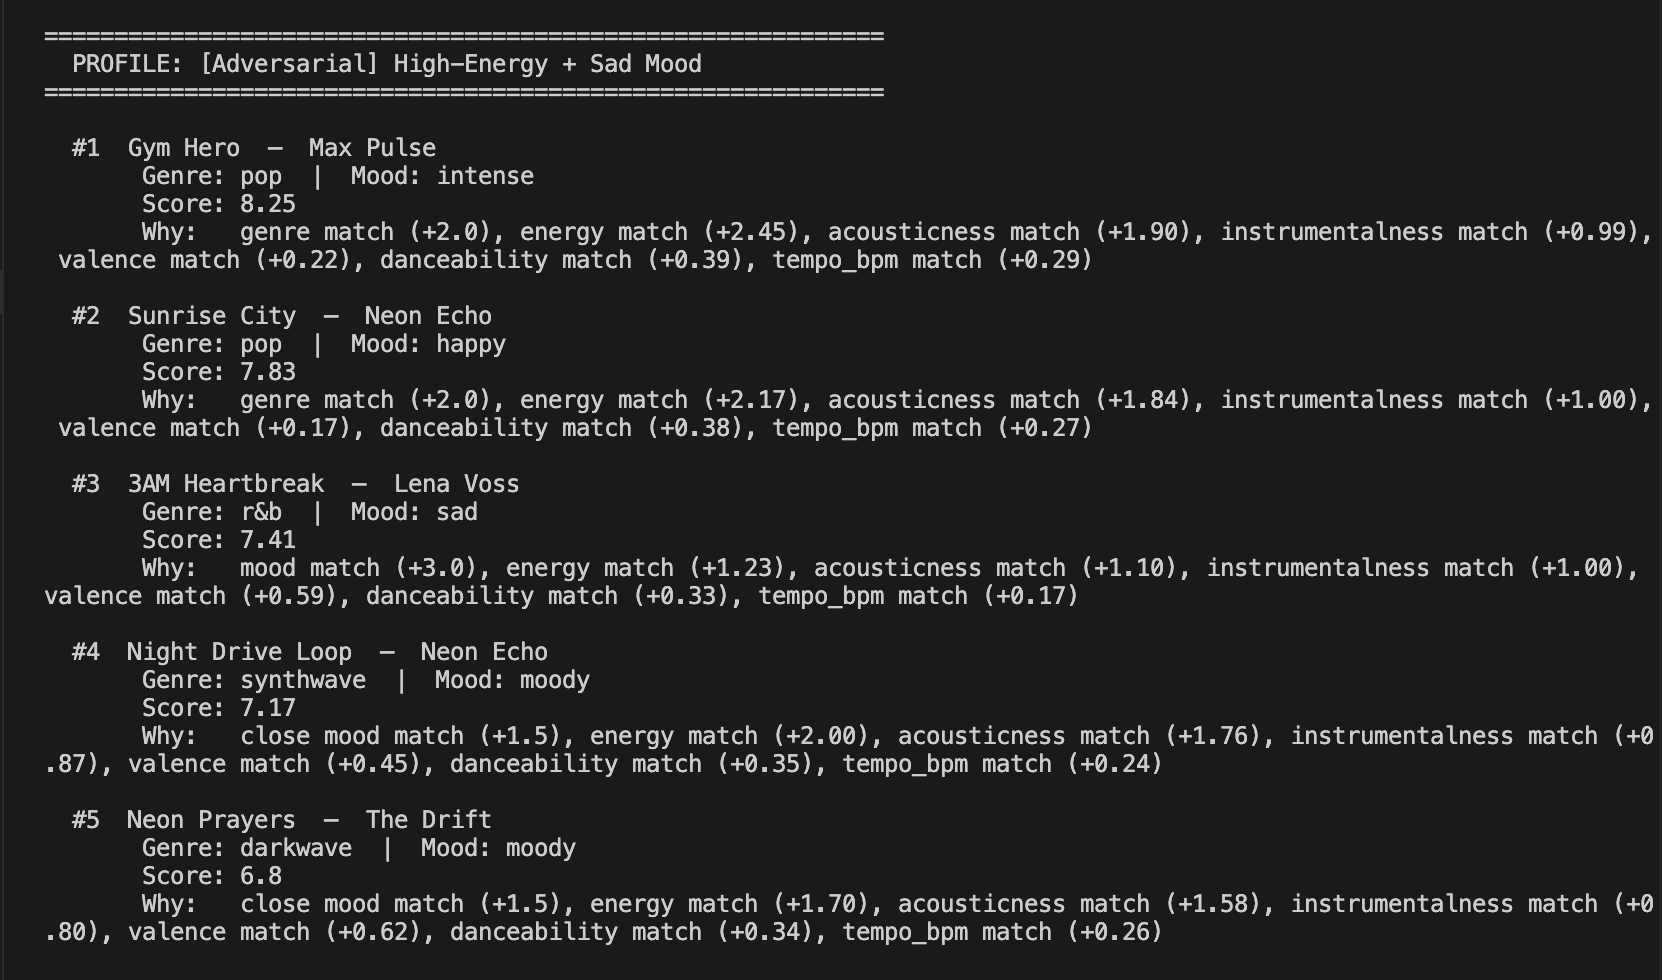
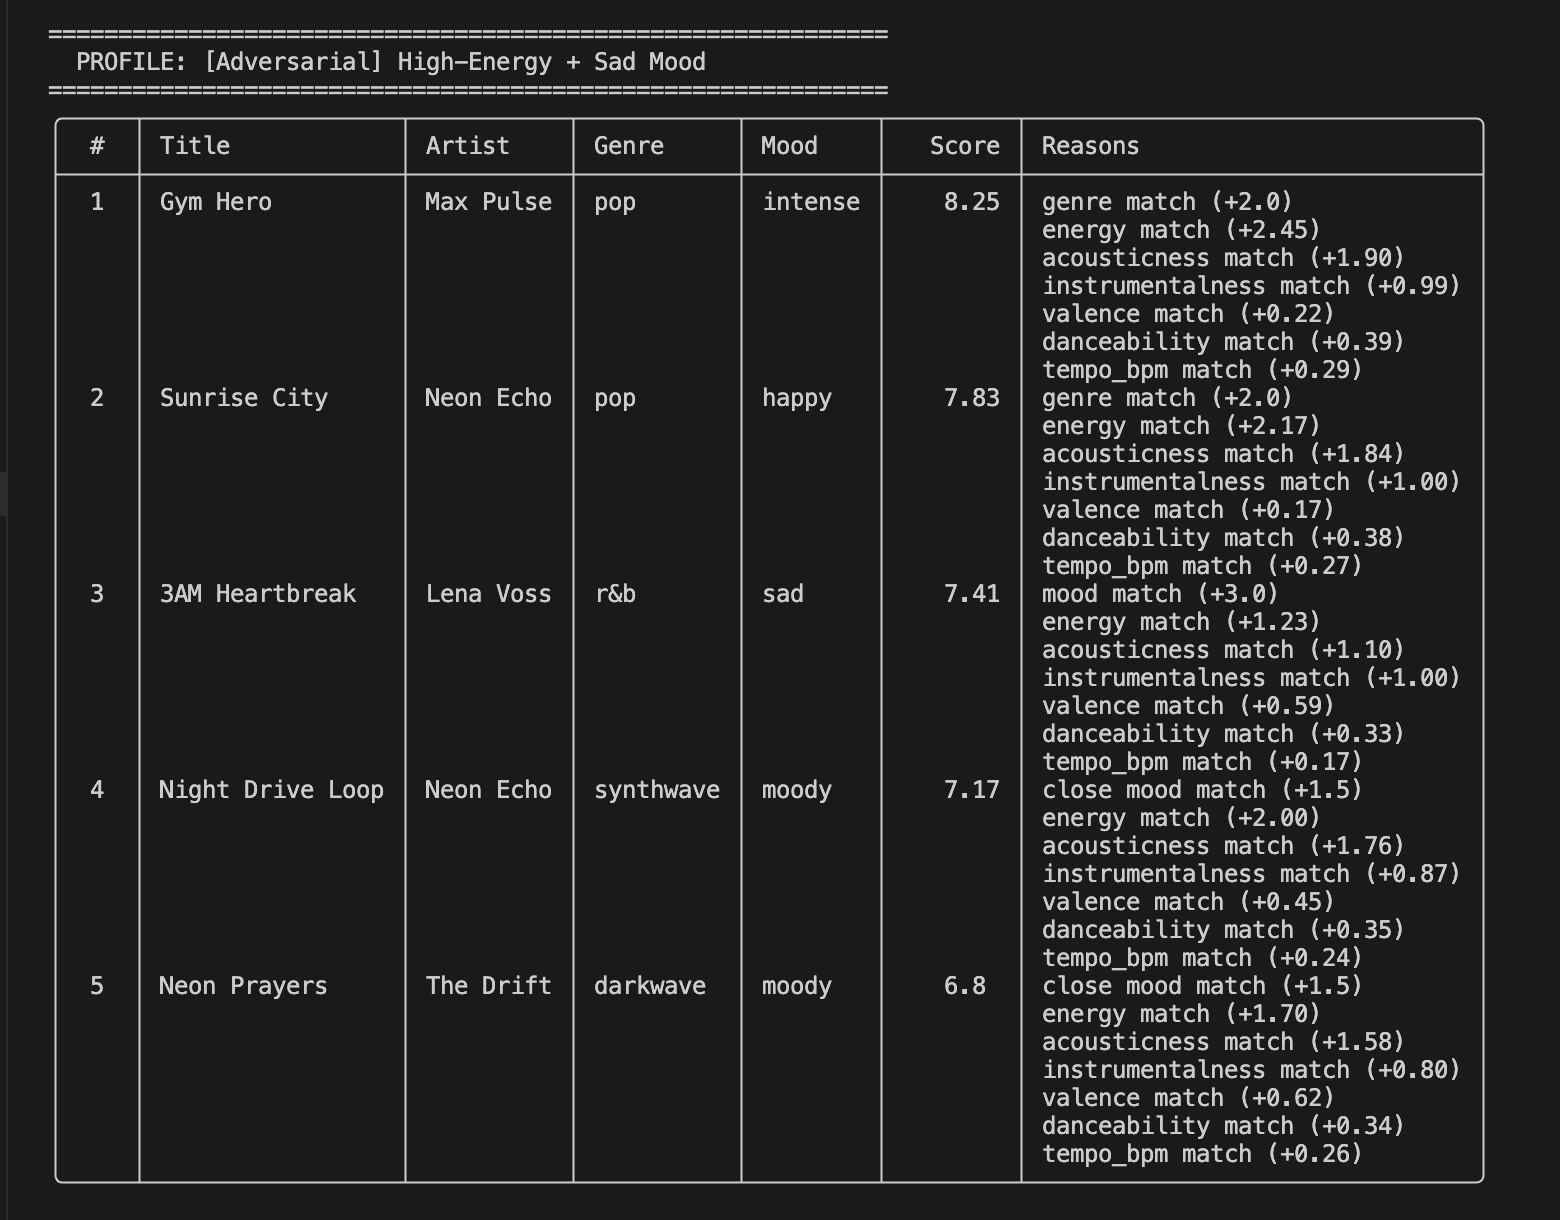
replace plain terminal output with formatted tabulate tables in README

Changed region(s): [[0.0308, 0.0, 1.0, 0.9796], [0.9231, 0.0918, 0.9538, 0.1531], [0.4923, 0.3061, 0.5231, 0.3367]]

diff --git a/README.md b/README.md
@@ -48,7 +48,7 @@ Each song gets a score based on how closely it matches the user's preferences. M
 
 ---
 
-## Sample Output — Per Profile
+## Sample Output Per Profile
 
 ### High-Energy Pop
 ![High-Energy Pop](assets/high_energy_pop.png)
